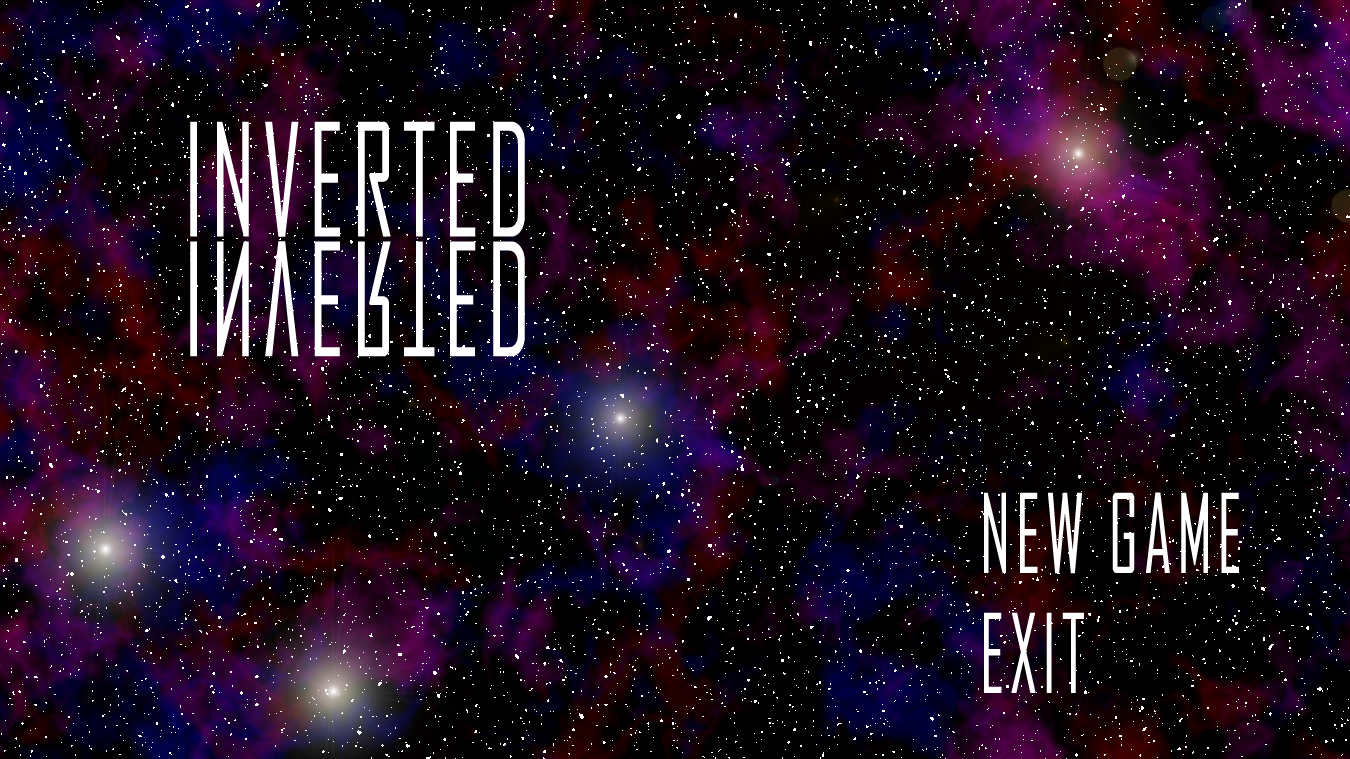
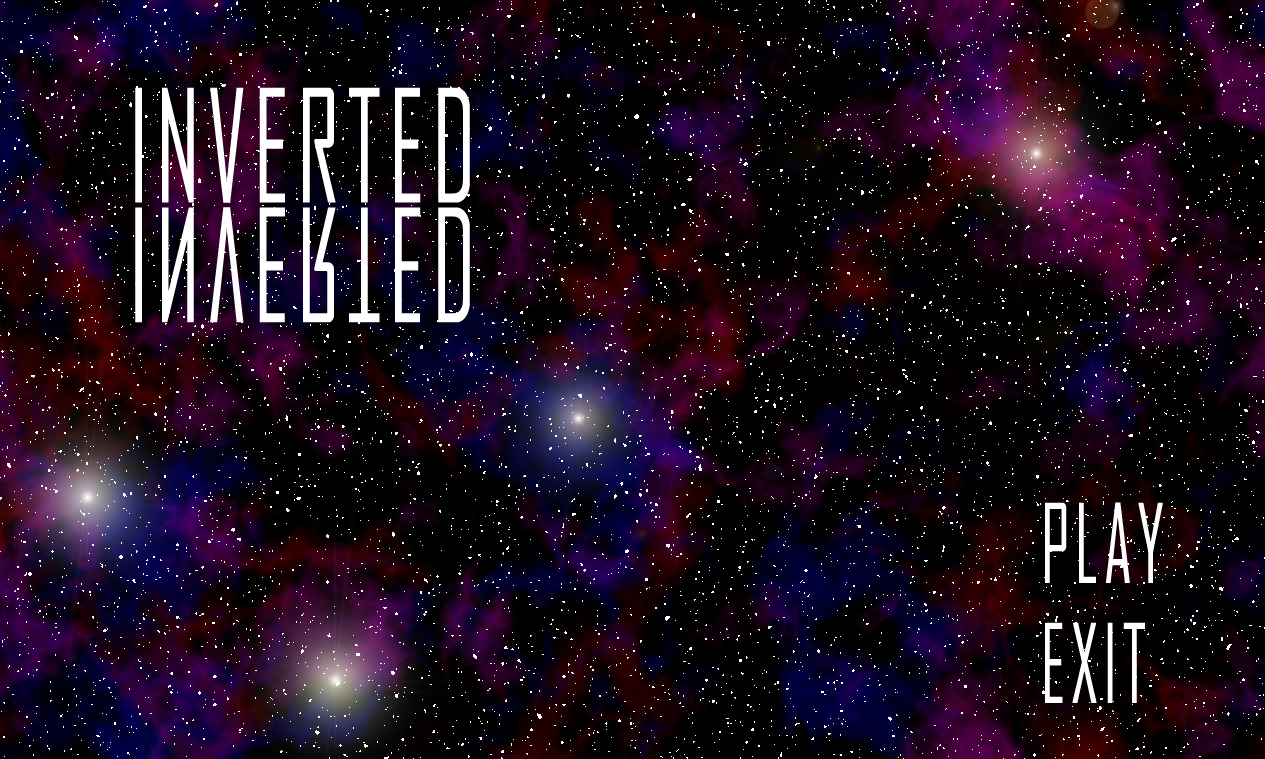
Updated menu and tutorial images Also animations

diff --git a/Player.cs b/Player.cs
@@ -32,6 +32,9 @@ namespace Platformer
         private ContentManager c;
         private SpriteEffects flip;
         private bool inAir;
+        private int time;
+        private bool stand;
+        private bool walk;
 
         public Player(int x, int y, int width, int height, bool inverted)
         {
@@ -45,6 +48,9 @@ namespace Platformer
             pushing = false;
             held = false;
             inAir = true;
+            time = 0;
+            stand = false;
+            walk = false;
             rect = new Rectangle(spriteX, spriteY, spriteWidth, spriteHeight);
 
             if (inverted)
@@ -136,6 +142,45 @@ namespace Platformer
 
         public void Move(Controls controls, List<Rectangle> collisionRects, GameTime gameTime)
         {
+            //Get time for timer for animations!
+            time += gameTime.ElapsedGameTime.Milliseconds;
+            if (time > 500 && x_vel > -.5 && x_vel < .5 )
+            {
+                if (!inverted)
+                {
+                    if (!stand)
+                    {
+                        LoadContent("Aaronstand2");
+                        stand = true;
+                        time -= 500;
+                    }
+                    else
+                    {
+                        LoadContent("Aaronstand1");
+                        stand = false;
+                        time -= 500;
+                    }
+                }
+            }
+
+            if (time > 100 && (x_vel <= -.5 || x_vel >= .5))
+            {
+                if (!inverted)
+                {
+                    if (!walk)
+                    {
+                        LoadContent("Aaronwalk1");
+                        walk = true;
+                        time -= 100;
+                    }
+                    else
+                    {
+                        LoadContent("Aaronwalk2");
+                        walk = false;
+                        time -= 100;
+                    }
+                }
+            }
 
             // Sideways Acceleration
             if (inverted)
@@ -236,7 +281,31 @@ namespace Platformer
                         if (inverted)
                             LoadContent("Benny.png");
                         else
-                            LoadContent("Aaronstand1.png");
+                        {
+                            if (x_vel < .5 && x_vel > -.5)
+                            {
+                                if (stand)
+                                {
+                                    LoadContent("Aaronstand2");
+                                }
+                                else
+                                {
+                                    LoadContent("Aaronstand1");
+                                }
+                            }
+                            else
+                            {
+                                if (walk)
+                                {
+                                    LoadContent("Aaronwalk1");
+                                }
+                                else
+                                {
+                                    LoadContent("Aaronwalk2");
+                                }
+                            }
+                        }
+                            
                     }
                     else
                     {

diff --git a/Menu.cs b/Menu.cs
@@ -67,7 +67,7 @@ namespace Platformer
 
             menubg = Game.Content.Load<Texture2D>("MainMenu");
             selectionArrow = Game.Content.Load<Texture2D>("SelectArrow");
-            arrowLocation = new Vector2(900, 500);
+            arrowLocation = new Vector2(970, 520);
 
             base.LoadContent();
         }
@@ -133,7 +133,7 @@ namespace Platformer
             spriteBatch.Begin();
 
             // Draw title
-            spriteBatch.Draw(menubg, new Vector2(0, 0));
+            spriteBatch.Draw(menubg, new Rectangle(0, 0, 1280, 768), Color.White);
             
             // Draw items
             if (selection == 0)
@@ -142,7 +142,7 @@ namespace Platformer
             }
             if (selection == 1)
             {
-                spriteBatch.Draw(selectionArrow, new Vector2(900,620));
+                spriteBatch.Draw(selectionArrow, new Vector2(970, 640));
             }  
             
             spriteBatch.End();
